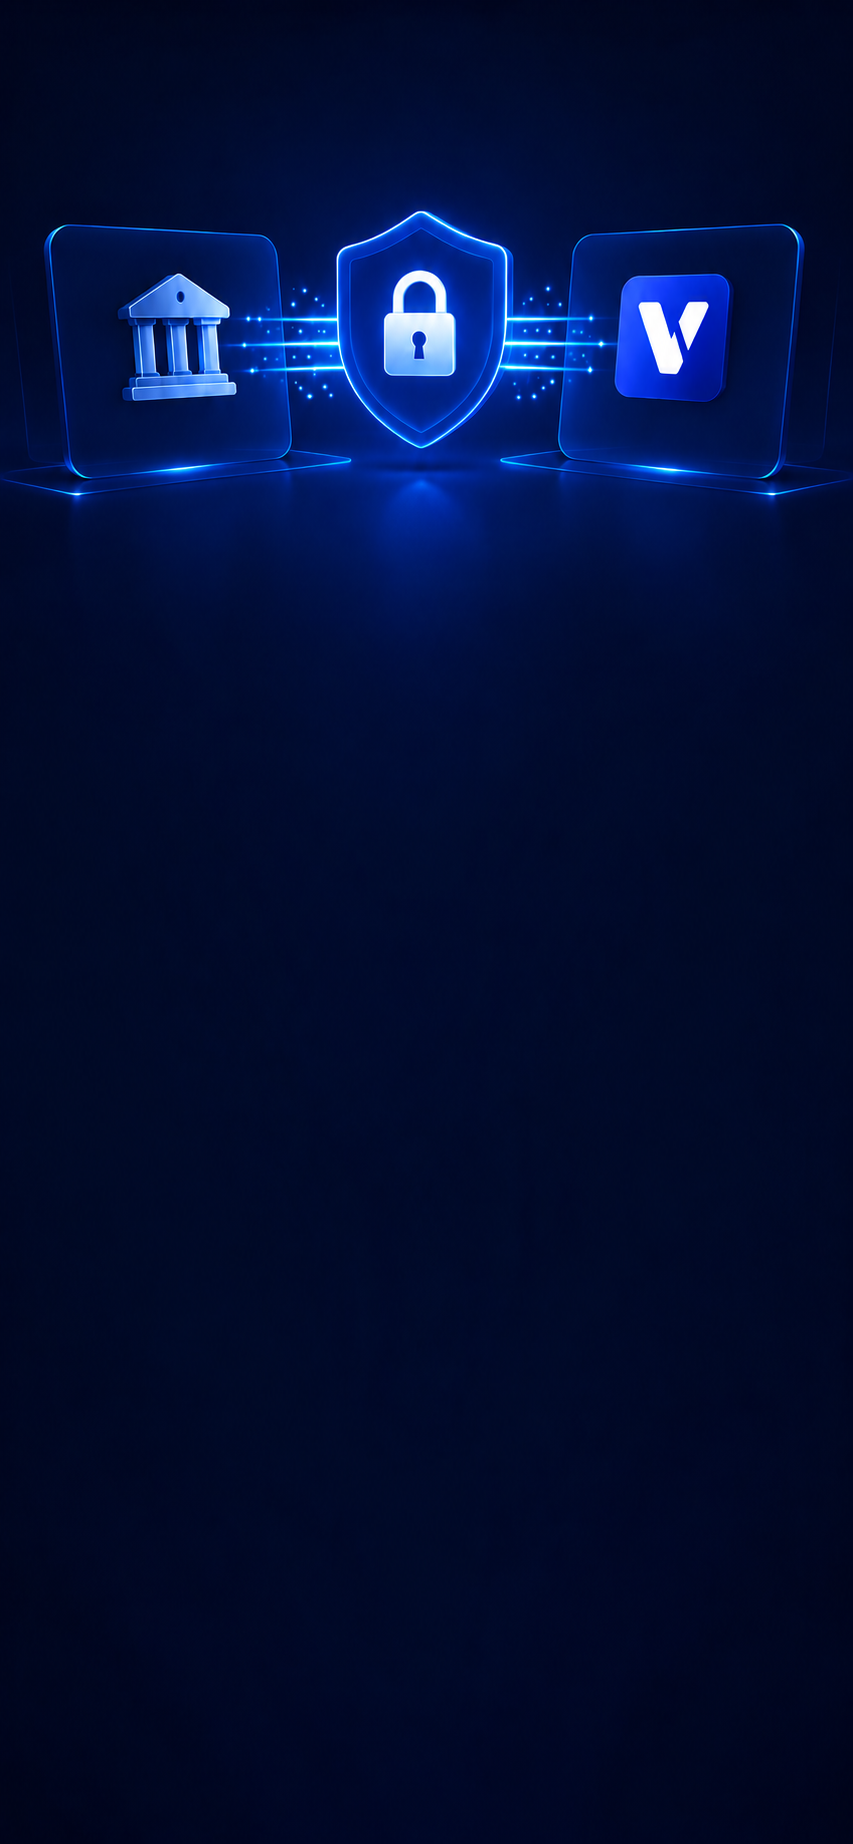
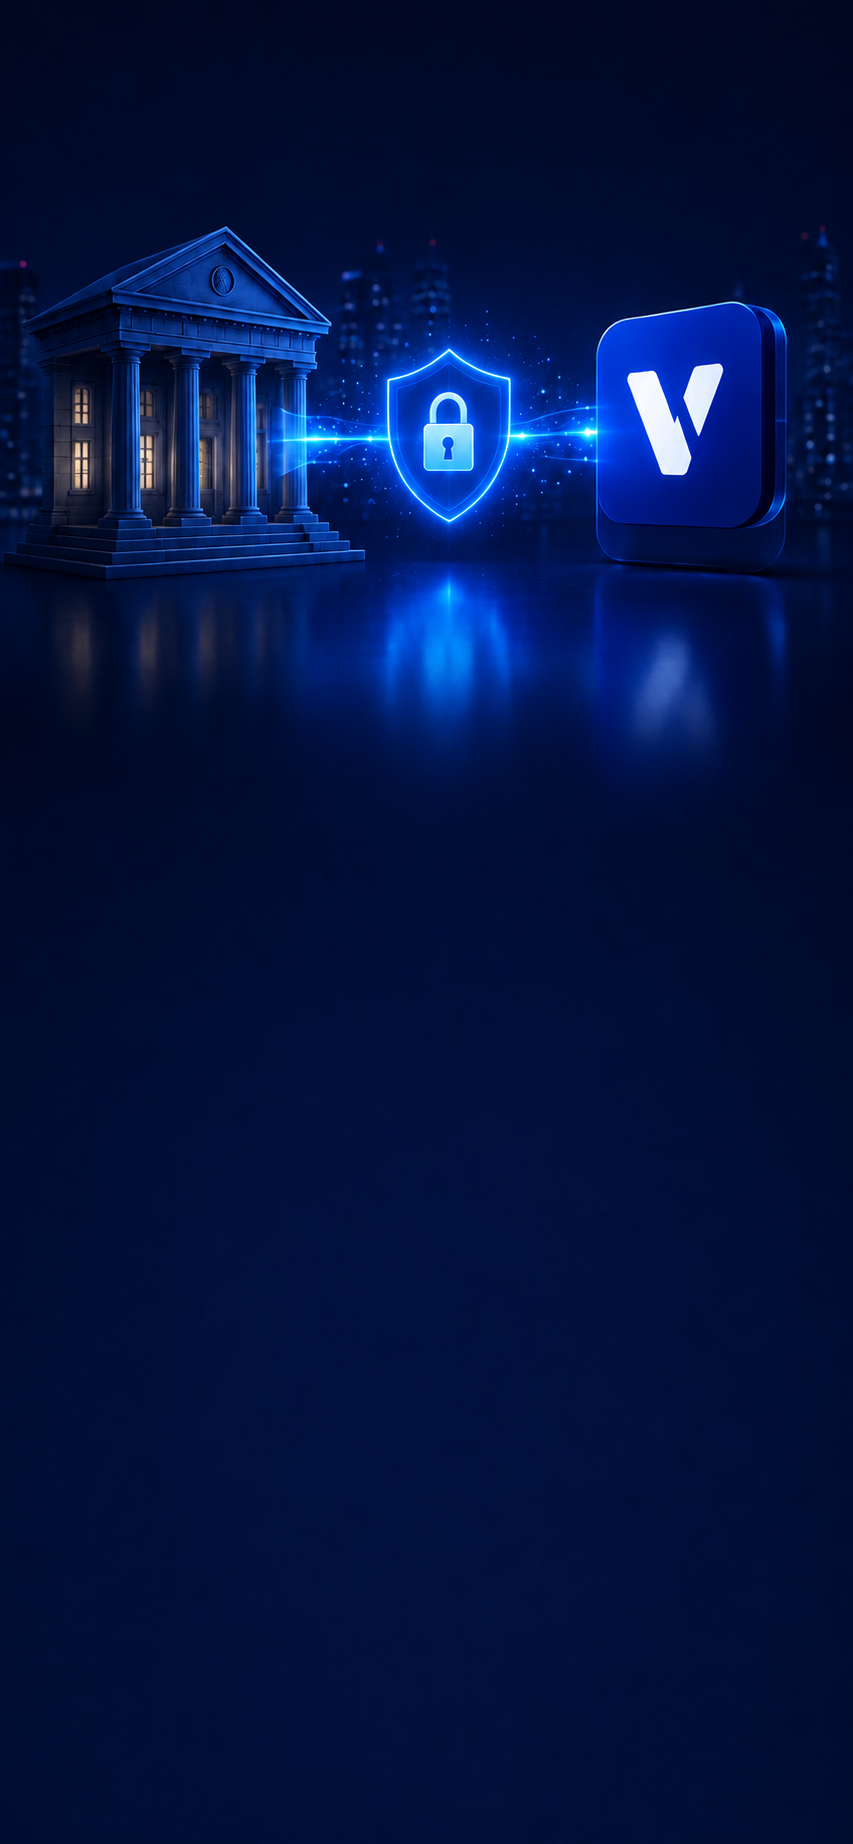
Swap Connect-bank photo, restyle trust points as staggered cards
Same card + stagger treatment as OnbFeatures — bordered icon-tile
cards fading/sliding in one at a time, alternating left/right — applied
to the four bank-trust points on this page too, per explicit request.
Copy unchanged, all four strings already had EN translations from
before. Copy start offset bumped 270 -> 310 for the new photo's own
reflection glow, which runs a little further down than the old one's.

diff --git a/lib/screens/onb_connect.dart b/lib/screens/onb_connect.dart
@@ -15,11 +15,18 @@ import 'splash_screen.dart';
 /// reachable from code, so page7_bg.png is deliberately the EMPTY version,
 /// supplied separately, and every word here is real Flutter text.
 ///
+/// 2026-09-02: photo swapped for a new supplied render (same 853×1844 size,
+/// same bank/shield/Vaultie-tile composition), and the four trust points
+/// restyled to match OnbFeatures' card treatment — a bordered tile with an
+/// icon square, staggered into place one at a time (alternating left/right)
+/// rather than appearing all at once, for the same reason and via the same
+/// mechanism (a single staggered AnimationController).
+///
 /// What is here stays checkable, same as before: the login happens on the
 /// bank's own page (Open Banking / PSD2), the access is read-only, and the
 /// data stays under the person's own control. Those are the things someone
 /// wants to know before handing over a bank connection.
-class OnbConnect extends StatelessWidget {
+class OnbConnect extends StatefulWidget {
   const OnbConnect({super.key, required this.next});
 
   /// Where "Toliau" leads. Per the agreed order that is the sign-in: the
@@ -27,7 +34,58 @@ class OnbConnect extends StatelessWidget {
   /// the bank list can even be fetched.
   final Widget next;
 
+  @override
+  State<OnbConnect> createState() => _OnbConnectState();
+}
+
+class _OnbConnectState extends State<OnbConnect>
+    with SingleTickerProviderStateMixin {
   static const _deep = Color(0xFF041038);
+
+  static const _points = [
+    (
+      icon: Icons.person_outline_rounded,
+      title: 'Tu kontroliuoji prieigą',
+      sub: 'Tu nusprendi, kokius duomenis bendrinti ir kada atšaukti prieigą.',
+    ),
+    (
+      icon: Icons.verified_user_outlined,
+      title: 'Saugumas pirmoje vietoje',
+      sub: 'Jungiamės per licencijuotą Open Banking infrastruktūrą pagal PSD2 standartą.',
+    ),
+    (
+      icon: Icons.visibility_outlined,
+      title: 'Tik skaitymo prieiga',
+      sub: 'Mes galime tik skaityti tavo duomenis. Mokėjimų neatliekame.',
+    ),
+    (
+      icon: Icons.lock_outline_rounded,
+      title: 'Tavo duomenys – tavo nuosavybė',
+      sub: 'Duomenys yra apsaugoti ir naudojami tik tavo Vaultie patirčiai pagerinti.',
+    ),
+  ];
+
+  late final AnimationController _ctrl = AnimationController(
+    vsync: this,
+    duration: Duration(milliseconds: 500 + _points.length * 170),
+  )..forward();
+
+  /// Same staggering as OnbFeatures' own _cardAnim — see that widget's doc.
+  Animation<double> _cardAnim(int i) {
+    final total = _ctrl.duration!.inMilliseconds;
+    final start = (i * 170) / total;
+    final end = ((i * 170) + 500) / total;
+    return CurvedAnimation(
+      parent: _ctrl,
+      curve: Interval(start, end.clamp(start, 1.0), curve: Curves.easeOutCubic),
+    );
+  }
+
+  @override
+  void dispose() {
+    _ctrl.dispose();
+    super.dispose();
+  }
 
   /// Last screen of the intro chain, so this is where the chain is recorded
   /// as walked — before navigating, so a user who never signs in still
@@ -43,7 +101,7 @@ class OnbConnect extends StatelessWidget {
     Navigator.of(context).pushReplacement(
       PageRouteBuilder(
         transitionDuration: const Duration(milliseconds: 200),
-        pageBuilder: (_, __, ___) => next,
+        pageBuilder: (_, __, ___) => widget.next,
         transitionsBuilder: (_, a, __, child) =>
             FadeTransition(opacity: a, child: child),
       ),
@@ -71,12 +129,15 @@ class OnbConnect extends StatelessWidget {
                       // The bank/shield/Vaultie tiles run roughly the top
                       // quarter of the render (measured the same way as the
                       // rest of the chain's full-bleed pages) — the copy
-                      // starts clear of them, not on top of them.
+                      // starts clear of them, not on top of them. Bumped
+                      // from 270 to 310 for the 2026-09-02 photo — its own
+                      // reflection glow runs a little further down than the
+                      // previous render's did, measured the same way.
                       padding: const EdgeInsets.fromLTRB(26, 0, 26, 8),
                       child: Column(
                         crossAxisAlignment: CrossAxisAlignment.start,
                         children: [
-                          const SizedBox(height: 270),
+                          const SizedBox(height: 310),
                           // 2026-08-19 v2: the solid gradient card didn't fit
                           // this particular photo — plain text with a soft
                           // drop shadow instead, same as the rest of the
@@ -127,26 +188,7 @@ class OnbConnect extends StatelessWidget {
                             ),
                           ),
                           const SizedBox(height: 22),
-                          _point(
-                            Icons.person_outline_rounded,
-                            tr('Tu kontroliuoji prieigą'),
-                            tr('Tu nusprendi, kokius duomenis bendrinti ir kada atšaukti prieigą.'),
-                          ),
-                          _point(
-                            Icons.verified_user_outlined,
-                            tr('Saugumas pirmoje vietoje'),
-                            tr('Jungiamės per licencijuotą Open Banking infrastruktūrą pagal PSD2 standartą.'),
-                          ),
-                          _point(
-                            Icons.visibility_outlined,
-                            tr('Tik skaitymo prieiga'),
-                            tr('Mes galime tik skaityti tavo duomenis. Mokėjimų neatliekame.'),
-                          ),
-                          _point(
-                            Icons.lock_outline_rounded,
-                            tr('Tavo duomenys – tavo nuosavybė'),
-                            tr('Duomenys yra apsaugoti ir naudojami tik tavo Vaultie patirčiai pagerinti.'),
-                          ),
+                          for (var i = 0; i < _points.length; i++) _card(i),
                         ],
                       ),
                     ),
@@ -214,42 +256,69 @@ class OnbConnect extends StatelessWidget {
         ),
       ));
 
-  Widget _point(IconData icon, String title, String body) => Padding(
-        padding: const EdgeInsets.only(bottom: 16),
-        child: Row(
-          crossAxisAlignment: CrossAxisAlignment.start,
-          children: [
-            Container(
-              width: 40,
-              height: 40,
-              alignment: Alignment.center,
-              decoration: BoxDecoration(
-                color: Colors.white.withValues(alpha: 0.06),
-                borderRadius: BorderRadius.circular(12),
-                border: Border.all(color: Colors.white.withValues(alpha: 0.14)),
-              ),
-              child: Icon(icon, size: 19, color: const Color(0xFF6E9CFF)),
-            ),
-            const SizedBox(width: 13),
-            Expanded(
-              child: Column(
-                crossAxisAlignment: CrossAxisAlignment.start,
-                children: [
-                  Text(title,
-                      style: const TextStyle(
-                          fontSize: 15,
-                          fontWeight: FontWeight.w700,
-                          color: Colors.white)),
-                  const SizedBox(height: 3),
-                  Text(body,
-                      style: TextStyle(
-                          fontSize: 13,
-                          height: 1.4,
-                          color: Colors.white.withValues(alpha: 0.68))),
-                ],
-              ),
-            ),
-          ],
+  /// Card [i] slides in from the right on even indexes, from the left on
+  /// odd ones — same mechanism as OnbFeatures' own `_card`, see its doc.
+  Widget _card(int i) {
+    final p = _points[i];
+    final anim = _cardAnim(i);
+    final fromRight = i.isEven;
+    return AnimatedBuilder(
+      animation: anim,
+      builder: (_, child) => Opacity(
+        opacity: anim.value,
+        child: Transform.translate(
+          offset: Offset((1 - anim.value) * (fromRight ? 48 : -48), 0),
+          child: child,
         ),
-      );
+      ),
+      child: Padding(
+        padding: const EdgeInsets.only(bottom: 12),
+        child: Container(
+          padding: const EdgeInsets.all(14),
+          decoration: BoxDecoration(
+            borderRadius: BorderRadius.circular(18),
+            color: Colors.white.withValues(alpha: 0.05),
+            border: Border.all(color: Colors.white.withValues(alpha: 0.14)),
+          ),
+          child: Row(
+            children: [
+              Container(
+                width: 44,
+                height: 44,
+                alignment: Alignment.center,
+                decoration: BoxDecoration(
+                  borderRadius: BorderRadius.circular(13),
+                  gradient: const LinearGradient(
+                    begin: Alignment.topLeft,
+                    end: Alignment.bottomRight,
+                    colors: [Color(0xFF3E63FF), Color(0xFF1B2E7A)],
+                  ),
+                ),
+                child: Icon(p.icon, color: Colors.white, size: 20),
+              ),
+              const SizedBox(width: 14),
+              Expanded(
+                child: Column(
+                  crossAxisAlignment: CrossAxisAlignment.start,
+                  children: [
+                    Text(tr(p.title),
+                        style: const TextStyle(
+                            fontSize: 15,
+                            fontWeight: FontWeight.w700,
+                            color: Colors.white)),
+                    const SizedBox(height: 3),
+                    Text(tr(p.sub),
+                        style: TextStyle(
+                            fontSize: 12.5,
+                            height: 1.35,
+                            color: Colors.white.withValues(alpha: 0.65))),
+                  ],
+                ),
+              ),
+            ],
+          ),
+        ),
+      ),
+    );
+  }
 }
